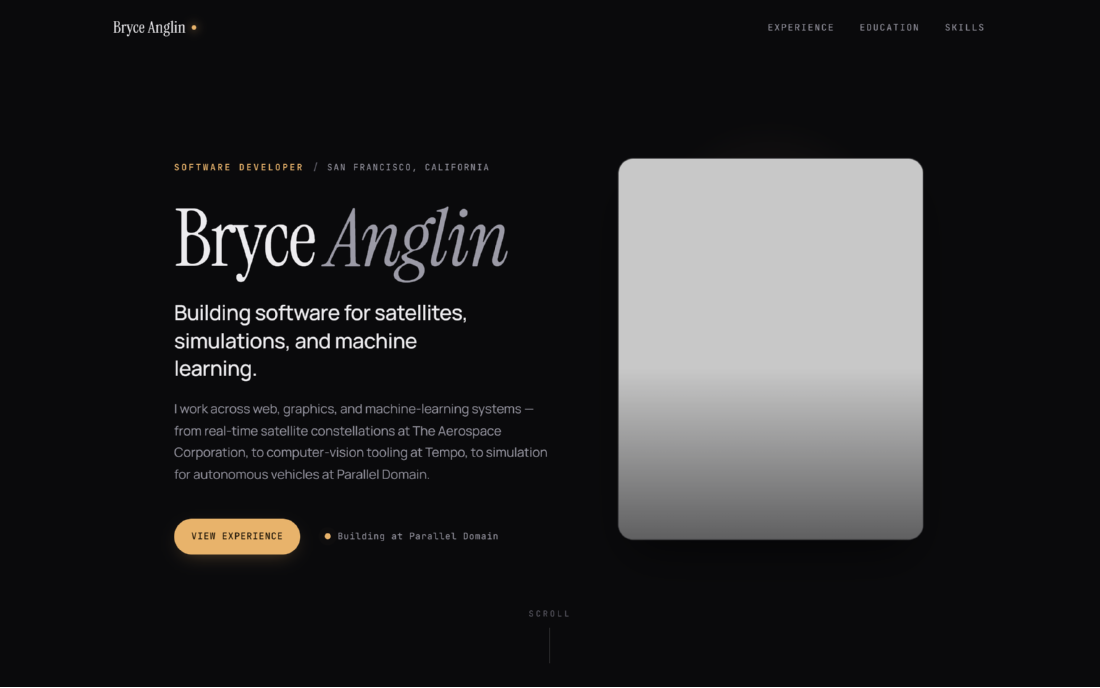
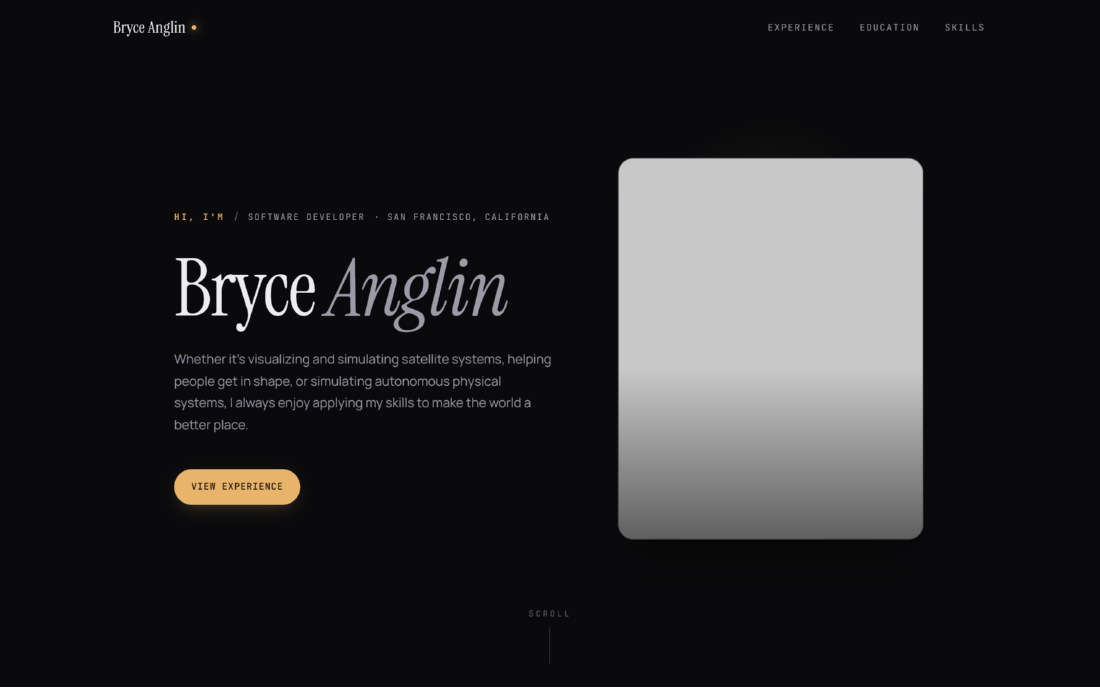
Update hero verbiage, company links/themes, remove toolkit section

diff --git a/src/data.js b/src/data.js
@@ -6,21 +6,17 @@ export const profile = {
   lastName: "Anglin",
   role: "Software Developer",
   location: "San Francisco, California",
-  // A punchy statement for the hero. The last line is emphasized.
-  headline: [
-    "Building software for",
-    "satellites, simulations,",
-    "and machine learning.",
-  ],
+  greeting: "Hi, I'm",
   summary:
-    "I work across web, graphics, and machine-learning systems — from real-time satellite constellations at The Aerospace Corporation, to computer-vision tooling at Tempo, to simulation for autonomous vehicles at Parallel Domain.",
-  current: "Building at Parallel Domain",
+    "Whether it's visualizing and simulating satellite systems, helping people get in shape, or simulating autonomous physical systems, I always enjoy applying my skills to make the world a better place.",
 };
 
 export const experience = [
   {
     company: "Parallel Domain",
-    blurb: "Simulation & synthetic data for autonomous vehicles",
+    url: "https://paralleldomain.com/",
+    theme: "pd",
+    blurb: "Photorealistic synthetic data & simulation for AVs, robotics, and AI",
     roles: [
       {
         title: "Principal Software Developer",
@@ -35,8 +31,10 @@ export const experience = [
   },
   {
     company: "Tempo",
-    blurb: "Autonomous long-haul trucking & delivery",
+    url: "https://tempo.fit/",
+    theme: "tempo",
     highlight: true,
+    blurb: "AI-powered home gym & virtual personal training",
     roles: [
       {
         title: "Tech Lead Manager",
@@ -64,8 +62,10 @@ export const experience = [
   },
   {
     company: "The Aerospace Corporation",
-    blurb: "Satellite & space-systems engineering",
+    url: "https://www.aero.org/",
+    theme: "aerospace",
     orbit: true,
+    blurb: "Satellite & space-systems engineering",
     roles: [
       {
         title: "Sr. Web & Graphics Software Developer",
@@ -98,25 +98,6 @@ export const education = [
     degree: "B.S. Mechanical Engineering",
     focus: "Technology Management",
     period: "2011 — 2015",
-  },
-];
-
-export const skillGroups = [
-  {
-    label: "Languages",
-    items: ["Python", "TypeScript", "JavaScript", "MATLAB", "SQL"],
-  },
-  {
-    label: "Web & Frameworks",
-    items: ["React", "Vue", "Three.js", "Flask", "Django", "Node.js"],
-  },
-  {
-    label: "Data & Machine Learning",
-    items: ["PostgreSQL", "Neo4j", "MongoDB", "SQLAlchemy", "Computer Vision", "ML Tooling"],
-  },
-  {
-    label: "Cloud & Tooling",
-    items: ["AWS", "S3", "Docker", "Git", "CI/CD", "Agile"],
   },
 ];
 

diff --git a/src/components/Experience.scss b/src/components/Experience.scss
@@ -5,13 +5,45 @@
 
 // Each experience gets its own full-height page when scrolling.
 .company {
+  position: relative;
+  isolation: isolate;
   display: flex;
   flex-direction: column;
   justify-content: center;
   min-height: 100vh;
   min-height: 100svh;
+  width: 100vw;
+  max-width: 100vw;
+  margin-left: calc(50% - 50vw);
+  padding-inline: var(--gap);
   padding-block: var(--section-y);
   scroll-snap-align: start;
+  box-sizing: border-box;
+}
+
+// Themed background layer per company page.
+.company__bg {
+  position: absolute;
+  inset: 0;
+  z-index: 0;
+  pointer-events: none;
+}
+
+// Parallel Domain — sensor / neural-reconstruction grid.
+.company--pd .company__bg {
+  background:
+    radial-gradient(ellipse 60% 50% at 82% 28%, rgba(56, 189, 248, 0.10), transparent 70%),
+    radial-gradient(ellipse 50% 45% at 12% 78%, rgba(129, 140, 248, 0.08), transparent 70%),
+    repeating-linear-gradient(0deg, rgba(148, 163, 184, 0.045) 0 1px, transparent 1px 44px),
+    repeating-linear-gradient(90deg, rgba(148, 163, 184, 0.045) 0 1px, transparent 1px 44px);
+}
+
+// Tempo — energetic home-gym gradient.
+.company--tempo .company__bg {
+  background:
+    radial-gradient(circle 55% 50% at 80% 26%, rgba(244, 114, 182, 0.10), transparent 70%),
+    radial-gradient(circle 50% 48% at 15% 74%, rgba(168, 85, 247, 0.09), transparent 70%),
+    repeating-linear-gradient(135deg, rgba(244, 114, 182, 0.035) 0 2px, transparent 2px 20px);
 }
 
 .company__head {
@@ -30,6 +62,16 @@
   font-size: clamp(1.9rem, 3.6vw, 2.6rem);
   line-height: 1;
   letter-spacing: -0.01em;
+
+  a {
+    color: inherit;
+    text-decoration: none;
+    transition: color 0.3s var(--ease);
+  }
+
+  a:hover {
+    color: var(--accent);
+  }
 }
 
 .company__blurb {
@@ -122,17 +164,6 @@
 }
 
 // Full-bleed Earth background page: globe fills the whole viewport behind the text.
-.company--feature {
-  position: relative;
-  isolation: isolate;
-  width: 100vw;
-  max-width: 100vw;
-  margin-left: calc(50% - 50vw);
-  padding-inline: var(--gap);
-  box-sizing: border-box;
-  min-height: 100svh;
-}
-
 .company__content {
   position: relative;
   z-index: 2;

diff --git a/src/components/Hero.jsx b/src/components/Hero.jsx
@@ -3,7 +3,7 @@ import avatar from "../assets/avatar.png";
 import Reveal from "./Reveal";
 import "./Hero.scss";
 
-const { firstName, lastName, role, location, headline, summary, current } = profile;
+const { firstName, lastName, role, location, greeting, summary } = profile;
 
 export default function Hero() {
   return (
@@ -11,9 +11,10 @@ export default function Hero() {
       <div className="shell hero__grid">
         <div className="hero__intro">
           <Reveal className="hero__eyebrow" as="p">
-            <span className="eyebrow">{role}</span>
+            <span className="eyebrow">{greeting}</span>
             <span className="hero__eyebrow-sep" aria-hidden="true">/</span>
-            <span className="hero__location">{location}</span>
+            <span className="hero__location">{role}</span>
+            <span className="hero__location">· {location}</span>
           </Reveal>
 
           <h1 className="hero__name">
@@ -25,22 +26,14 @@ export default function Hero() {
             </Reveal>
           </h1>
 
-          <Reveal as="p" className="hero__tagline" delay={280}>
-            {headline.join(" ")}
-          </Reveal>
-
-          <Reveal as="p" className="hero__summary" delay={360}>
+          <Reveal as="p" className="hero__summary" delay={280}>
             {summary}
           </Reveal>
 
-          <Reveal as="div" className="hero__actions" delay={440}>
+          <Reveal as="div" className="hero__actions" delay={360}>
             <a href="#experience" className="btn btn--primary">
               View experience
             </a>
-            <span className="hero__status">
-              <span className="hero__status-dot" aria-hidden="true" />
-              {current}
-            </span>
           </Reveal>
         </div>
 

diff --git a/src/components/Experience.jsx b/src/components/Experience.jsx
@@ -42,11 +42,24 @@ export default function Experience() {
 
         <div className="experience__list">
           {experience.map((company, i) => (
-            <Reveal key={company.company} className={`company ${company.orbit ? "company--feature" : ""}`} delay={i * 60}>
+            <Reveal
+              key={company.company}
+              className={`company ${company.theme ? `company--${company.theme}` : ""}`}
+              delay={i * 60}
+            >
+              <div className="company__bg" aria-hidden="true" />
               <div className="company__content">
                 <div className="company__head">
                   <div className="company__id">
-                    <h3 className="company__name">{company.company}</h3>
+                    <h3 className="company__name">
+                      {company.url ? (
+                        <a href={company.url} target="_blank" rel="noreferrer noopener">
+                          {company.company}
+                        </a>
+                      ) : (
+                        company.company
+                      )}
+                    </h3>
                     {company.blurb && (
                       <p className="company__blurb">{company.blurb}</p>
                     )}

diff --git a/src/App.jsx b/src/App.jsx
@@ -2,7 +2,6 @@ import Nav from "./components/Nav";
 import Hero from "./components/Hero";
 import Experience from "./components/Experience";
 import Education from "./components/Education";
-import Skills from "./components/Skills";
 import Footer from "./components/Footer";
 
 export default function App() {
@@ -14,7 +13,6 @@ export default function App() {
         <Hero />
         <Experience />
         <Education />
-        <Skills />
       </main>
       <Footer />
     </>

diff --git a/src/components/Nav.jsx b/src/components/Nav.jsx
@@ -5,7 +5,6 @@ import "./Nav.scss";
 const LINKS = [
   { id: "experience", label: "Experience" },
   { id: "education", label: "Education" },
-  { id: "skills", label: "Skills" },
 ];
 
 export default function Nav() {
